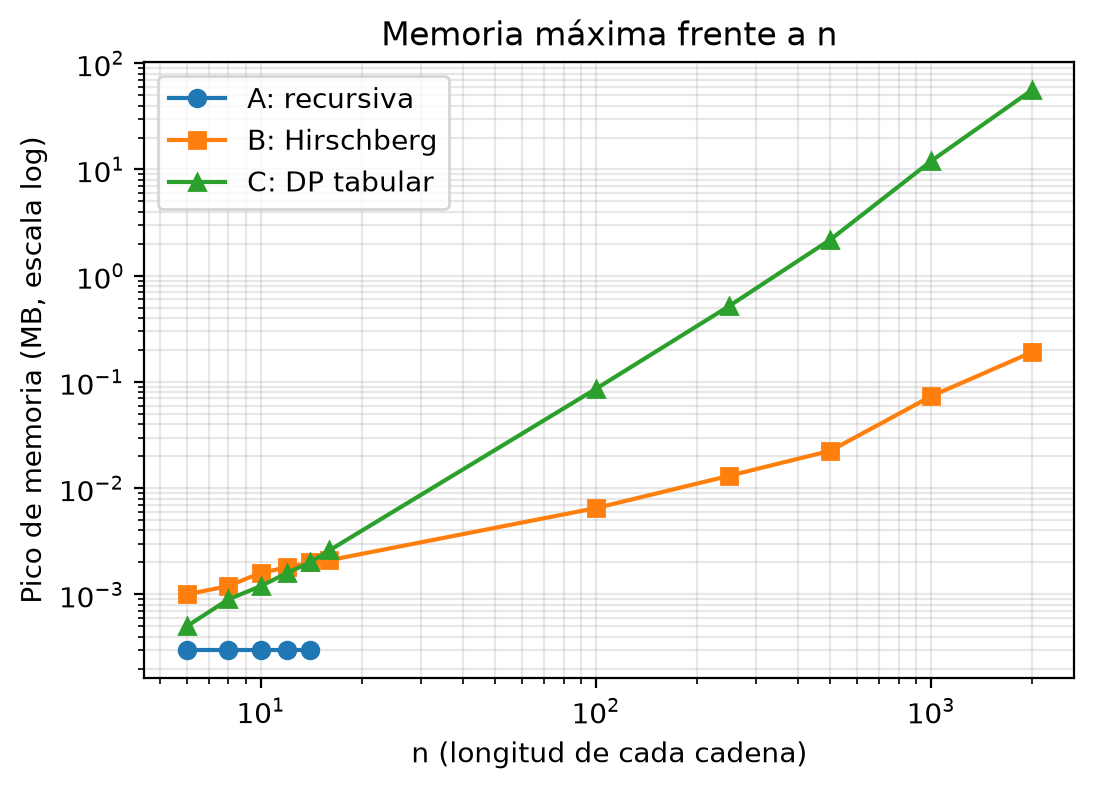
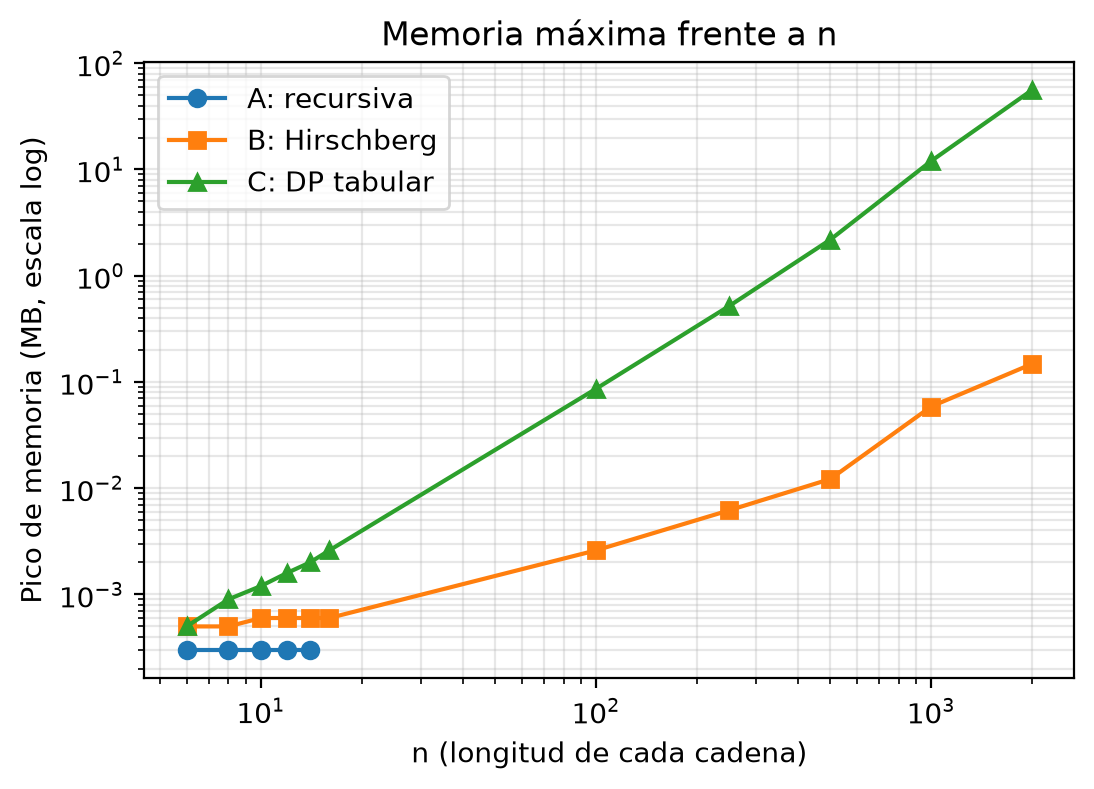
Hirschberg con índices (memoria O(n) real), extra_a.py y resultados regenerados

diff --git a/src/lcs_hirschberg.py b/src/lcs_hirschberg.py
@@ -1,25 +1,41 @@
-def ultima_fila(a, b):
-    prev = [0]*(len(b)+1)
-    for x in a:
-        cur = [0]*(len(b)+1)
-        for j in range(1, len(b)+1):
-            if x == b[j-1]:
-                cur[j] = prev[j-1] + 1
-            else:
-                cur[j] = max(prev[j], cur[j-1])
+def ultima_fila(a, b, a0, a1, b0, b1, invertir=False):
+    """Última fila de la tabla DP de a[a0:a1] frente a b[b0:b1] (dos filas, O(n)).
+    Con invertir=True recorre ambos tramos de derecha a izquierda, sin copiarlos."""
+    n = b1 - b0
+    prev = [0] * (n + 1)
+    idx_a = range(a1 - 1, a0 - 1, -1) if invertir else range(a0, a1)
+    for i in idx_a:
+        x = a[i]
+        cur = [0] * (n + 1)
+        for j in range(1, n + 1):
+            y = b[b1 - j] if invertir else b[b0 + j - 1]
+            cur[j] = prev[j - 1] + 1 if x == y else max(prev[j], cur[j - 1])
         prev = cur
-    return prev          # prev[j] = LCS(a, b[:j])
+    return prev
+
+
+def punto_corte(a, b, a0, am, a1, b0, b1):
+    """Calcula k en una función aparte: fwd y bwd se liberan al volver."""
+    n = b1 - b0
+    fwd = ultima_fila(a, b, a0, am, b0, b1)                 # LCS(a[a0:am], b[b0:b0+j])
+    bwd = ultima_fila(a, b, am, a1, b0, b1, invertir=True)  # LCS(a[am:a1], b[b0+j:b1]) = bwd[n-j]
+    return max(range(n + 1), key=lambda j: fwd[j] + bwd[n - j])
+
+
+def _rec(a, b, a0, a1, b0, b1, salida):
+    if a0 == a1 or b0 == b1:
+        return
+    if a1 - a0 == 1:                                        # caso base
+        if a[a0] in b[b0:b1]:
+            salida.append(a[a0])
+        return
+    am = (a0 + a1) // 2
+    k = b0 + punto_corte(a, b, a0, am, a1, b0, b1)
+    _rec(a, b, a0, am, b0, k, salida)
+    _rec(a, b, am, a1, k, b1, salida)
+
 
 def hirschberg(a, b):
-    if len(a) == 0 or len(b) == 0:
-        return ""
-    if len(a) == 1:
-        return a if a in b else ""          # caso base
-    mid = len(a)//2
-    a1, a2 = a[:mid], a[mid:]
-    fwd = ultima_fila(a1, b)
-    bwd = ultima_fila(a2[::-1], b[::-1])    # sobre cadenas invertidas
-    n = len(b)
-    # bwd[n-j] = LCS(a2, b[j:])
-    k = max(range(n+1), key=lambda j: fwd[j] + bwd[n-j])
-    return hirschberg(a1, b[:k]) + hirschberg(a2, b[k:])
+    salida = []
+    _rec(a, b, 0, len(a), 0, len(b), salida)
+    return "".join(salida)

diff --git a/src/extra_a.py b/src/extra_a.py
@@ -1,0 +1,12 @@
+import time
+from generador import generar_par, generar_peor_caso
+import lcs_recursiva as R
+
+for n in (16, 18):
+    a, b = generar_par(n)
+    t = time.process_time(); r = R.lcs_rec(a, b)
+    print(f"aleatorio n={n}: {R.llamadas} llamadas, LCS={len(r)}, {time.process_time()-t:.1f} s")
+
+a, b = generar_peor_caso(16)   # tarda ~2 min
+t = time.process_time(); R.lcs_rec(a, b)
+print(f"peor caso n=16: {R.llamadas} llamadas, {time.process_time()-t:.0f} s")

diff --git a/README.md b/README.md
@@ -104,6 +104,7 @@ Las tres hacen exactamente lo mismo (tests → experimentos → gráficas):
 Opciones útiles:
 - **Solo tests:** `python -m pytest tests -q` (o `make test`). Deben pasar 23 pruebas.
 - **Solo una comprobación rápida de los experimentos:** `python src/benchmark.py --rapido`.
+- **Medidas extra de la versión A** (cadenas aleatorias y peor caso con n = 16; las cifras citadas en la memoria): `python src/extra_a.py`. Tarda unos minutos.
 - **Probar una versión suelta**, por ejemplo Hirschberg:
   ```bash
   python -c "import sys; sys.path.insert(0, 'src'); from lcs_hirschberg import hirschberg; print(hirschberg('ABCBDAB', 'BDCABA'))"
@@ -136,10 +137,11 @@ El experimento completo tarda unos minutos, porque la versión A en el peor caso
 lcs-actividad1/
 ├── src/
 │   ├── lcs_recursiva.py    # Versión A: recursiva directa (con contador de llamadas)
-│   ├── lcs_hirschberg.py   # Versión B: Hirschberg (divide y vencerás, DP de dos filas)
+│   ├── lcs_hirschberg.py   # Versión B: Hirschberg (divide y vencerás, DP de dos filas, trabaja con índices)
 │   ├── lcs_dp.py           # Versión C: programación dinámica tabular
 │   ├── generador.py        # Generación reproducible de cadenas (aleatorias y peor caso)
 │   ├── benchmark.py        # Medición de tiempo de CPU y memoria máxima
+│   ├── extra_a.py          # Medidas extra de A (cadenas aleatorias n = 16, 18, 20 y peor caso n = 16)
 │   └── graficas.py         # Gráficas y tabla de resultados
 ├── tests/test_lcs.py       # Pruebas: casos límite, ejemplo del Tema 3 y 200 parejas aleatorias
 ├── data/                   # resultados.csv y gráficas generadas
@@ -159,7 +161,7 @@ lcs-actividad1/
 
 ### Limitaciones
 
-- `tracemalloc` no cuenta la pila de llamadas, por lo que la memoria de la versión A queda infravalorada (teóricamente O(m+n) marcos de pila).
+- `tracemalloc` no cuenta la pila de llamadas, por lo que la memoria de la versión A queda infravalorada (teóricamente O(m+n) marcos de pila). Además cuenta cada entero grande como objeto, por lo que la memoria de B no crece de forma perfectamente regular entre tamaños.
 - Se mide una sola pareja por tamaño y los tiempos varían algo entre ejecuciones según la carga de la máquina; con tamaños pequeños, la diferencia entre B y C puede incluso invertirse por el ruido de medición.
 
 ## Resultados principales
@@ -168,23 +170,23 @@ Medidos en un equipo con Intel Core i5-1135G7, 16 GB de RAM, Omarchy Linux y Pyt
 
 | n | A: tiempo (ms) | A: llamadas | B: tiempo (ms) | B: MB | C: tiempo (ms) | C: MB |
 |---|---|---|---|---|---|---|
-| 6 | 0,169 | 1 847 | 0,024 | 0,001 | 0,015 | 0,0005 |
-| 8 | 2,38 | 25 739 | 0,031 | 0,0012 | 0,026 | 0,0009 |
-| 10 | 35,4 | 369 511 | 0,039 | 0,0016 | 0,023 | 0,0012 |
-| 12 | 489 | 5 408 311 | 0,039 | 0,0018 | 0,025 | 0,0016 |
-| 14 | 7 392 | 80 233 199 | 0,046 | 0,002 | 0,029 | 0,002 |
-| 16 | timeout (> 60 s) | 1 202 160 779 (medición individual: 122 s) | 0,064 | 0,0021 | 0,043 | 0,0026 |
-| 100 | — | — | 1,65 | 0,0065 | 0,964 | 0,0863 |
-| 250 | — | — | 8,86 | 0,0131 | 5,89 | 0,5202 |
-| 500 | — | — | 35,1 | 0,0225 | 26,1 | 2,185 |
-| 1000 | — | — | 154 | 0,0734 | 118 | 12,02 |
-| 2000 | — | — | 602 | 0,1909 | 549 | 56,01 |
+| 6 | 0,167 | 1 847 | 0,027 | 0,0005 | 0,015 | 0,0005 |
+| 8 | 2,35 | 25 739 | 0,028 | 0,0005 | 0,017 | 0,0009 |
+| 10 | 32,7 | 369 511 | 0,036 | 0,0006 | 0,020 | 0,0012 |
+| 12 | 479 | 5 408 311 | 0,041 | 0,0006 | 0,026 | 0,0016 |
+| 14 | 7 140 | 80 233 199 | 0,057 | 0,0006 | 0,031 | 0,002 |
+| 16 | timeout (> 60 s) | 1 202 160 779 (medición individual: 122 s) | 0,082 | 0,0006 | 0,044 | 0,0026 |
+| 100 | — | — | 1,97 | 0,0026 | 1,04 | 0,0863 |
+| 250 | — | — | 11,3 | 0,0062 | 6,25 | 0,5202 |
+| 500 | — | — | 43,8 | 0,0122 | 28,4 | 2,185 |
+| 1000 | — | — | 181 | 0,0587 | 118 | 12,02 |
+| 2000 | — | — | 714 | 0,1479 | 494 | 56,01 |
 
 Conclusiones breves:
 
 - **A** es exponencial: el número de llamadas coincide exactamente con 2·C(2n, n) − 1, y con n = 16 ya tarda más de dos minutos.
 - **C** es la más simple y rápida, pero su memoria crece como n² (56 MB con n = 2000).
-- **B** mantiene el tiempo O(m·n), con una constante algo mayor, y reduce la memoria a O(n) (unas 290 veces menos con n = 2000).
+- **B** mantiene el tiempo O(m·n), con una constante algo mayor, y reduce la memoria a O(n) (unas 380 veces menos con n = 2000).
 
 La memoria completa, con el análisis detallado y las gráficas, está en el PDF de la entrega.
 
